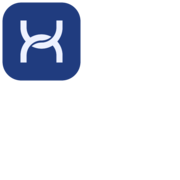
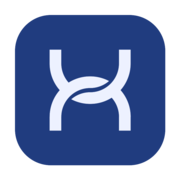
Add files via upload

diff --git a/index.html b/index.html
@@ -5,7 +5,7 @@
 <title>Nodus — BIM Solutions | Consultoria, Implementação e Treinamentos BIM</title>
 <meta name="description" content="Nodus BIM Solutions. Conectando tecnologia, dados e engenharia para transformar projetos em resultados. Consultoria, implementação e treinamentos em BIM.">
 <!-- Favicon / App Icons -->
-<link rel="icon" type="image/svg+xml" href="nodus-symbol.svg">
+<link rel="icon" type="image/svg+xml" href="favicon-source.svg">
 <link rel="icon" type="image/x-icon" href="favicon.ico">
 <link rel="icon" type="image/png" sizes="16x16" href="favicon-16.png">
 <link rel="icon" type="image/png" sizes="32x32" href="favicon-32.png">
